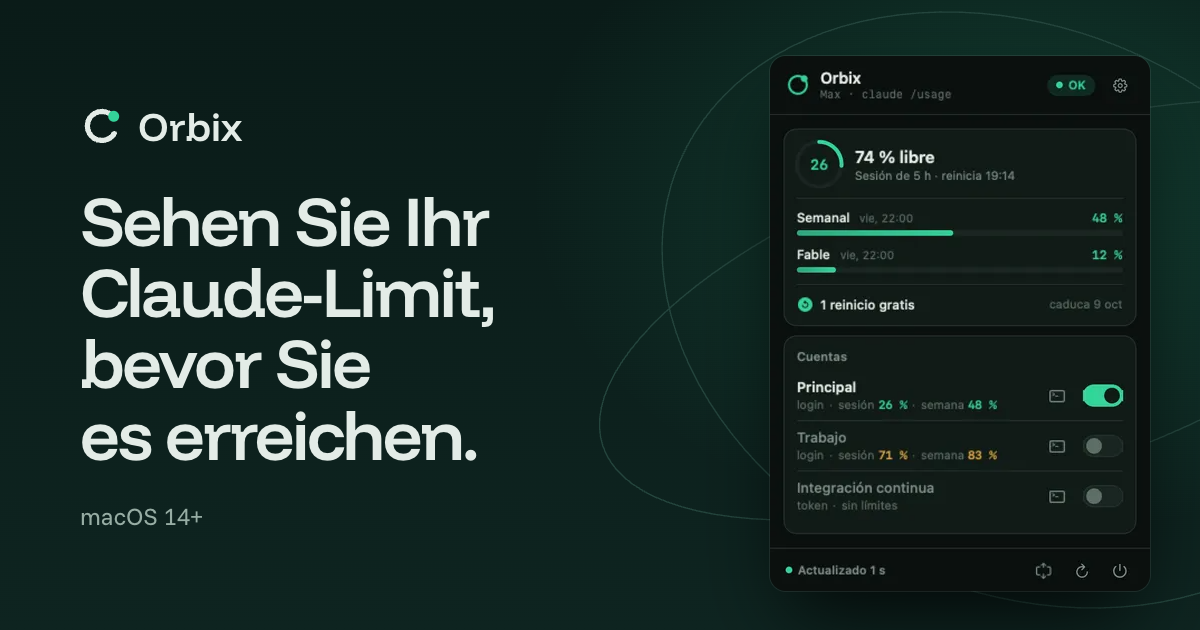
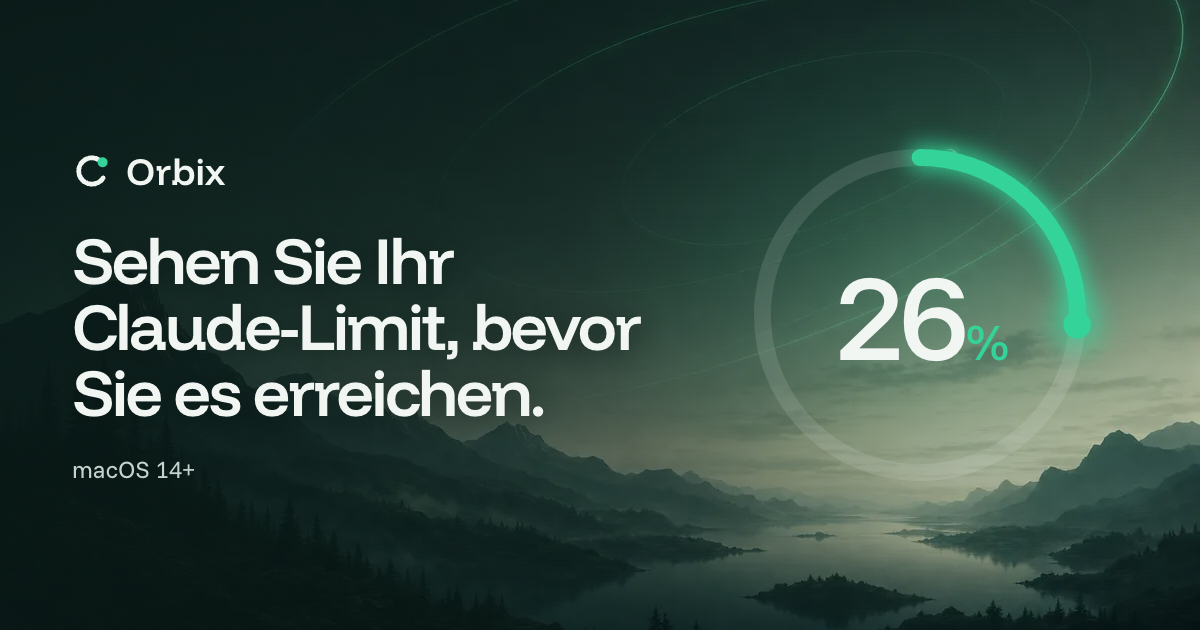
fix(web): correcciones de SEO y títulos con «Claude Code»
- El H1 conserva los espacios entre palabras (se perdían al animarlo).
- vercel.json: barra final y URL limpias sin duplicados, redirección del
  dominio .vercel.app al propio y caché larga para /_astro.
- Títulos, descripciones y entradillas con «Claude Code» en los cinco
  idiomas; descripciones por debajo de 160 caracteres.
- Sitemap con lastmod, página 404 propia e imágenes para compartir con el
  diseño del hero.
- Nombres accesibles que incluyen el texto visible y aro con div role=img.
- El aro mide el layout una vez por scroll y la animación solo escribe.

diff --git a/site/src/i18n/de.ts b/site/src/i18n/de.ts
@@ -2,9 +2,9 @@ import type { Dict } from "./config";
 
 const de: Dict = {
   meta: {
-    title: "Orbix: Ihr Claude-Limit in der Menüleiste des Mac",
+    title: "Orbix: Claude-Code-Limits in der Menüleiste des Mac",
     description:
-      "Orbix zeigt, wie viel von Ihrer 5-Stunden-Sitzung und Ihrem Wochenlimit bei Claude übrig ist, wann beide zurückgesetzt werden und was diese Nutzung über die API kosten würde. Kostenlos für macOS.",
+      "Kostenlose Menüleisten-App für Claude Code: was von 5-Stunden-Sitzung und Wochenlimit übrig ist, wann beide neu starten und was es per API kosten würde.",
     ogAlt: "Orbix: der Nutzungsring in der Menüleiste des Mac und sein Panel mit 5-Stunden-Sitzung und Wochenlimits",
   },
   nav: {
@@ -15,7 +15,7 @@ const de: Dict = {
     privacy: "Datenschutz",
     install: "Installieren",
     faq: "Fragen",
-    download: "Laden",
+    download: "Download",
     language: "Sprache",
     openPanel: "Orbix-Panel öffnen",
     home: "Orbix, Startseite",
@@ -23,8 +23,8 @@ const de: Dict = {
   },
   hero: {
     title: "Sehen Sie Ihr Claude-Limit, bevor Sie es erreichen.",
-    lede: "Orbix sitzt in der Menüleiste Ihres Mac. Es zeigt, wie viel von der 5-Stunden-Sitzung und der Woche übrig ist, wann beide zurückgesetzt werden und was diese Nutzung über die API kosten würde.",
-    download: "Für Mac laden",
+    lede: "Orbix ist eine kostenlose Menüleisten-App für die Nutzung von Claude Code. Sie zeigt, wie viel von der 5-Stunden-Sitzung und der Woche übrig ist, wann beide zurückgesetzt werden und was diese Nutzung über die API kosten würde.",
+    download: "Für Mac herunterladen",
     source: "Auf GitHub ansehen",
     meta: "Version {version}, kostenlos. macOS 14 oder neuer, Apple Silicon und Intel. Von Apple signiert und notariell beglaubigt.",
   },
@@ -108,11 +108,11 @@ const de: Dict = {
   install: {
     title: "Die Installation dauert eine halbe Minute.",
     steps: [
-      { title: "Laden Sie die .dmg", text: "Version {version}, signiert und notariell beglaubigt." },
+      { title: "Laden Sie die .dmg herunter", text: "Version {version}, signiert und notariell beglaubigt." },
       { title: "Ziehen Sie Orbix in Programme", text: "Im Fenster, das sich öffnet." },
       { title: "Öffnen Sie es", text: "Es erscheint oben rechts in der Menüleiste und fragt, ob es beim Anmelden starten soll." },
     ],
-    download: "Orbix {version} laden",
+    download: "Orbix {version} herunterladen",
     note: "Sie brauchen Claude Code, installiert und angemeldet.",
     allReleases: "Alle Versionen auf GitHub",
     window: "Installationsfenster: Orbix links, der Ordner Programme rechts",

diff --git a/site/src/i18n/fr.ts b/site/src/i18n/fr.ts
@@ -2,9 +2,9 @@ import type { Dict } from "./config";
 
 const fr: Dict = {
   meta: {
-    title: "Orbix : votre limite Claude dans la barre des menus du Mac",
+    title: "Orbix : vos limites Claude Code dans la barre des menus du Mac",
     description:
-      "Orbix indique ce qu'il vous reste de la session de 5 heures et de la limite hebdomadaire de Claude, quand chacune se réinitialise et ce que cet usage coûterait via l'API. Gratuit, pour macOS.",
+      "App gratuite pour la barre des menus du Mac : ce qu'il reste de votre session de 5 heures et de la semaine Claude Code, et quand elles se réinitialisent.",
     ogAlt: "Orbix : l'anneau d'utilisation dans la barre des menus du Mac et son panneau avec la session de 5 heures et les limites hebdomadaires",
   },
   nav: {
@@ -23,7 +23,7 @@ const fr: Dict = {
   },
   hero: {
     title: "Voyez votre limite Claude avant de l'atteindre.",
-    lede: "Orbix vit dans la barre des menus de votre Mac. Il indique ce qu'il vous reste de la session de 5 heures et de la semaine, quand chacune se réinitialise et ce que cet usage coûterait via l'API.",
+    lede: "Orbix affiche gratuitement l'utilisation de Claude Code dans la barre des menus du Mac. Il indique ce qu'il vous reste de la session de 5 heures et de la semaine, quand chacune se réinitialise et ce que cet usage coûterait via l'API.",
     download: "Télécharger pour Mac",
     source: "Voir sur GitHub",
     meta: "Version {version}, gratuite. macOS 14 ou ultérieur, Apple Silicon et Intel. Signée et notarisée par Apple.",

diff --git a/site/src/i18n/es.ts b/site/src/i18n/es.ts
@@ -2,9 +2,9 @@ import type { Dict } from "./config";
 
 const es: Dict = {
   meta: {
-    title: "Orbix: tu límite de Claude en la barra de menús del Mac",
+    title: "Orbix: límites de Claude Code en la barra de menús del Mac",
     description:
-      "Orbix te enseña cuánto te queda de la sesión de 5 horas y de la semana de Claude, cuándo se reinicia cada una y qué te costaría ese uso por API. Gratis, para macOS.",
+      "App gratis para la barra de menús del Mac: cuánto te queda de la sesión de 5 horas y de la semana de Claude Code, cuándo se reinician y qué costaría por API.",
     ogAlt: "Orbix: el aro de uso en la barra de menús del Mac y su panel con la sesión de 5 horas y los límites semanales",
   },
   nav: {
@@ -23,7 +23,7 @@ const es: Dict = {
   },
   hero: {
     title: "Mira tu límite de Claude antes de llegar a él.",
-    lede: "Orbix vive en la barra de menús del Mac. Te dice cuánto te queda de la sesión de 5 horas y de la semana, cuándo se reinicia cada una y qué te costaría ese uso por API.",
+    lede: "Orbix es una app gratis para ver el uso de Claude Code desde la barra de menús del Mac. Te dice cuánto te queda de la sesión de 5 horas y de la semana, cuándo se reinicia cada una y qué te costaría ese uso por API.",
     download: "Descargar para Mac",
     source: "Ver en GitHub",
     meta: "Versión {version}, gratis. macOS 14 o posterior, Apple Silicon e Intel. Firmada y notarizada por Apple.",

diff --git a/site/src/i18n/pt.ts b/site/src/i18n/pt.ts
@@ -3,9 +3,9 @@ import type { Dict } from "./config";
 // Brazilian Portuguese.
 const pt: Dict = {
   meta: {
-    title: "Orbix: seu limite do Claude na barra de menus do Mac",
+    title: "Orbix: limites de uso do Claude Code na barra de menus do Mac",
     description:
-      "O Orbix mostra quanto resta da sessão de 5 horas e do limite semanal do Claude, quando cada um reinicia e quanto esse uso custaria pela API. Grátis, para macOS.",
+      "App grátis para a barra de menus do Mac: quanto resta da sessão de 5 horas e da semana do Claude Code, quando reiniciam e quanto custaria pela API.",
     ogAlt: "Orbix: o anel de uso na barra de menus do Mac e seu painel com a sessão de 5 horas e os limites semanais",
   },
   nav: {
@@ -24,7 +24,7 @@ const pt: Dict = {
   },
   hero: {
     title: "Veja seu limite do Claude antes de chegar nele.",
-    lede: "O Orbix fica na barra de menus do Mac. Ele mostra quanto resta da sessão de 5 horas e da semana, quando cada uma reinicia e quanto esse uso custaria pela API.",
+    lede: "O Orbix é um app grátis para acompanhar o uso do Claude Code na barra de menus do Mac. Ele mostra quanto resta da sessão de 5 horas e da semana, quando cada uma reinicia e quanto esse uso custaria pela API.",
     download: "Baixar para Mac",
     source: "Ver no GitHub",
     meta: "Versão {version}, grátis. macOS 14 ou posterior, Apple Silicon e Intel. Assinado e notarizado pela Apple.",

diff --git a/site/src/i18n/en.ts b/site/src/i18n/en.ts
@@ -2,9 +2,9 @@
 // "{version}" is replaced with the latest release number at build time.
 export default {
   meta: {
-    title: "Orbix: your Claude limit in the Mac menu bar",
+    title: "Orbix: Claude Code usage limits in your Mac menu bar",
     description:
-      "Orbix shows how much of your 5-hour Claude session and weekly limit is left, when each one resets and what that usage would cost on the API. Free for macOS.",
+      "Free Mac menu bar app for Claude Code: see what's left of your 5-hour session and weekly limit, when each resets and what it would cost on the API.",
     ogAlt: "Orbix: the usage ring in the Mac menu bar and its panel with the 5-hour session and weekly limits",
   },
   nav: {
@@ -23,7 +23,7 @@ export default {
   },
   hero: {
     title: "See your Claude limit before you hit it.",
-    lede: "Orbix lives in your Mac's menu bar. It shows how much of the 5-hour session and the week you have left, when each one resets, and what that usage would cost on the API.",
+    lede: "Orbix is a free Mac menu bar app for Claude Code usage. It shows how much of the 5-hour session and the week you have left, when each one resets, and what that usage would cost on the API.",
     download: "Download for Mac",
     source: "View on GitHub",
     meta: "Version {version}, free. macOS 14 or later, Apple Silicon and Intel. Signed and notarized by Apple.",
